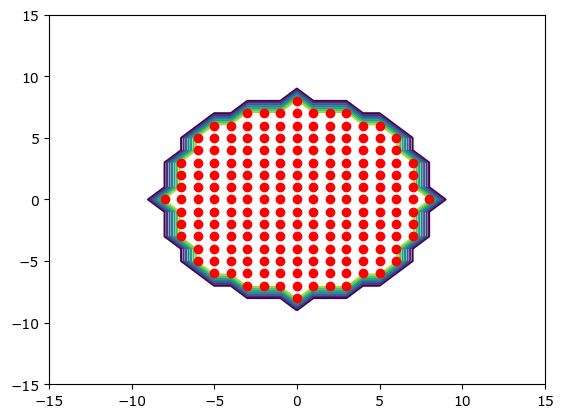
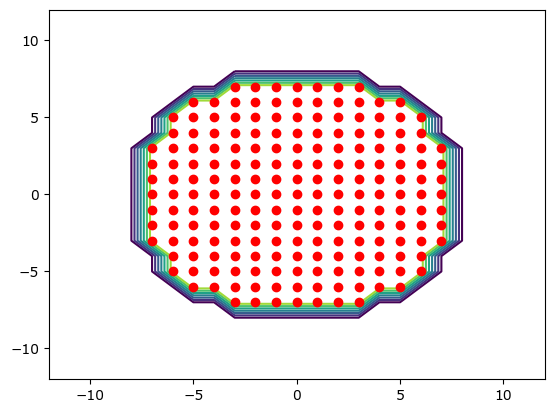
finished all

Changed region(s): [[0.2148, 0.1453, 0.8592, 0.7845], [0.0307, 0.0291, 0.9819, 0.9879]]

diff --git a/week5/EE19B123_week5.py b/week5/EE19B123_week5.py
@@ -22,12 +22,10 @@ else:
     os.mkdir('imgs')
 #########################
 
-
 def add_stuf(function):
         '''
         decorator function
         adds plot label/title/legend/save file
-
         '''
         def fcall(*args, **kwargs): 
             if kwargs.get('xlabel'):
@@ -37,14 +35,13 @@ def add_stuf(function):
             if kwargs.get('title'):
                 plt.title(kwargs['title'])
             if kwargs.get('legend'):
-                plt.legend()
+                plt.legend(('Calculated Error','Fit 1 (all iterations)','Fit 2 (>500 iterations)'))
             function(*args, **kwargs)
-
-            plt.savefig(kwargs['path']+'.png',bbox_inches='tight')
-            print('File saved at {}'.format(kwargs['path']))
-            plt.clf()
+            if not kwargs.get('not_save'):
+                plt.savefig(kwargs['path']+'.png',bbox_inches='tight')
+                print('File saved at {}'.format(kwargs['path']))
+                plt.clf()
         return fcall
-
 
 class Plot:
     '''
@@ -55,48 +52,49 @@ class Plot:
     plot3D()
     contour()
     '''
-
     def __init__(self):
         super(Plot, self).__init__()
 
     @add_stuf
     def semilogy(self,x,y, **kwargs):
-        plt.semilogy(x,y,kwargs['marker'],ms = 4, label = kwargs['label'])
+        plt.semilogy(x,y,kwargs['marker'],ms = 4)
 
     @add_stuf
     def loglog(self,x,y, **kwargs):
         plt.loglog(x,y,kwargs['marker'],ms=4, label = kwargs['label'])
 
-        
     @add_stuf
     def plot3D(self,x,y,z, **kwargs):
         fig = plt.figure() 
         ax=p3.Axes3D(fig) 
         ax.plot_surface(y, x, z.T, rstride=1, cstride=1, cmap=plt.cm.jet)
+        ax.set_zlabel(kwargs['zlabel'])
 
-    @add_stuf
-    def plotMany(self, x, y, **kwargs):
-        pass
+    def plotMany(self, x, y,count, **kwargs):
+        for i in range(count):
+            if i <count-1:
+                kwargs['not_save'] = True
+            else:
+                kwargs['not_save'] = False
+            self.semilogy(x[i],y[i],**kwargs)
 
     @add_stuf
     def contour(self, X, Y,phi, **kwargs):
         ids = kwargs.get('ids')
         x = kwargs.get('x')
         y = kwargs.get('y')
-        contour(X,Y,phi)
+        contour(Y,X[::-1],phi)
         plot(x[ids[0]],y[ids[1]],'ro')
-        #plot(ids[1]-(kwargs['Nx']-1)/2,ids[0]-(kwargs['Ny']-1)/2,kwargs['marker'])
+
 
     @add_stuf
-    def quiver(self, x, y,jx, jy, **kwargs):
-        inds = kwargs.get('ids')
-        Nx = kwargs.get('Nx')
-        Ny = kwargs.get('Ny')
-        phi = kwargs.get('phi')
+    def quiver(self, X, Y,jx, jy, **kwargs):
+        ids = kwargs.get('ids')
+        x = kwargs.get('x')
+        y = kwargs.get('y')
         fig,ax = plt.subplots()
-        fig = ax.quiver(y,x,jx[::-1, :],jy[::-1, :])
-        contour(x,y,phi)
-        pylab.plot(inds[1]-(Nx-1)/2,inds[0]-(Ny-1)/2,'ro')
+        fig = ax.quiver(Y,X[::-1],jx,jy, scale = 5)
+        plot(x[ids[0]],y[ids[1]],'ro')
     
 
 
@@ -127,18 +125,18 @@ class PotentialSolver(Plot):
         '''
         Function to setup the grid
         '''
-        phi = np.zeros((self.Nx,self.Ny))
-        self.x1 = np.linspace(-(self.Nx-1)/2,(self.Nx-1)/2,self.Nx)
-        self.y1 = np.linspace(-(self.Ny-1)/2,(self.Ny-1)/2,self.Ny)
-        self.X,self.Y = np.meshgrid(self.x1,self.y1)
-        id = np.where((self.X**2 + self.Y**2) <= self.radius*self.radius)
+        phi = np.zeros((self.Ny,self.Nx))
+        self.x1 = np.linspace(-(self.Ny-1)/2,(self.Ny-1)/2,self.Ny)
+        self.y1 = np.linspace(-(self.Nx-1)/2,(self.Nx-1)/2,self.Nx)
+        self.Y,self.X = np.meshgrid(self.y1,self.x1)
+        id = np.where((self.X**2 + self.Y**2) < self.radius*self.radius)
         phi[id] = 1.0
         return phi, id
 
     @staticmethod
-    def step(phi):
+    def step(phi, ophi):
         #phi_new = 1/4 *(left +right +top +bottom)
-        phi[1:-1,1:-1] = 0.25*(phi[1:-1,0:-2]+phi[1:-1,2:]+phi[0:-2,1:-1]+phi[2:,1:-1]) 
+        phi[1:-1,1:-1] = 0.25*(ophi[1:-1,0:-2]+ophi[1:-1,2:]+ophi[0:-2,1:-1]+ophi[2:,1:-1]) 
         return phi
 
     @staticmethod
@@ -148,10 +146,8 @@ class PotentialSolver(Plot):
         '''
         phi[1:-1,0] = phi[1:-1,1]   #left side boundary condition
         phi[1:-1,-1] = phi[1:-1,-2] #right side boundary condition
-        #phi[0,1:-1] = phi[1,1:-1]   #top side 
-        #phi[-1, 1:-1] = 0           #bottom side as its grounded
-        phi[-1, 1:-1] = phi[-2, 1:-1]
-        phi[0, 1:-1] =0
+        phi[0,1:-1] = phi[1,1:-1]   #top side 
+        phi[-1, 1:-1] = 0           #bottom side as its grounded
         phi[ids] = 1.0
         return phi
 
@@ -163,7 +159,7 @@ class PotentialSolver(Plot):
         error = np.empty(epochs)
         for i in range(epochs):
             old_phi = self.phi.copy()
-            self.phi = self.step(self.phi)
+            self.phi = self.step(self.phi, old_phi)
             self.phi = self.callback(self.phi, self.ids)
             error[i] = np.max(np.abs(self.phi- old_phi)) 
         return error
@@ -180,26 +176,29 @@ class PotentialSolver(Plot):
     @staticmethod
     def max_error(A,B,N):
         return -A*(np.exp(B*(N+0.5)))/B
+
+    @staticmethod
+    def fit(x, A, B):
+        return A*np.exp(B*x)
          
 
     def cuurents(self):
         '''
         fucntions computes the current vectors ie: Jx , Jy
         '''
-        self.Jx = np.zeros((self.Nx,self.Ny))
-        self.Jy = np.zeros((self.Nx,self.Ny))
+        self.Jx = np.zeros((self.Ny,self.Nx))
+        self.Jy = np.zeros((self.Ny,self.Nx))
 
-        self.Jy[:,1:-1] = 0.5*(self.phi[:,0:-2]-self.phi[:,2:])
-        self.Jx[1:-1,:] = 0.5*(self.phi[2:, :]-self.phi[0:-2,:])
+        self.Jx[:,1:-1] = 0.5*(self.phi[:,0:-2]-self.phi[:,2:])
+        self.Jy[1:-1,:] = 0.5*(self.phi[2:, :]-self.phi[0:-2,:])
 
         return self.Jx, self.Jy
 
 
 
-
 if __name__ =='__main__':
 
-    #using argparse for taking inputs as several inputs are needed adn argv will get confusing
+    #using argparse for taking inputs as several inputs are needed and argv will get confusing
     parser = argparse.ArgumentParser()# use --help for support
     parser.add_argument('--Nx',default=25,required = True, type=int,help='Size along the x axis')
     parser.add_argument('--Ny',default=25,required = True , type=int,help='Size along the y axis')
@@ -215,17 +214,13 @@ if __name__ =='__main__':
         path ='imgs/plate_plot',\
         ids = plate.ids, \
         x = plate.x1,\
-        y = plate.y1
-        )
+        y = plate.y1)
 
     #compute the potential function
     loss = plate.trainer(args.Niter)
-
-    A,B = plate.errorFit(range(args.Niter), loss)
-    A2,B2 = plate.errorFit(range(args.Niter)[500:],loss[500:])
-
+    
     #Task 1.1
-    plate.semilogy(range(1000), loss, \
+    plate.semilogy(range(1000)[::50], loss[::50], \
         marker = 'ro',\
         xlabel = 'iterations',\
         ylabel = 'error(log scale)',\
@@ -239,33 +234,42 @@ if __name__ =='__main__':
         path = 'imgs/figure2',\
         label = 'plot')
 
+    A,B = plate.errorFit(range(args.Niter), loss)
+    A2,B2 = plate.errorFit(range(args.Niter)[500:],loss[500:])
+
     #Task 2.1 TODO add  multiple plots cuz here u have to plot 3 in a graph
-    plate.semilogy(range(1000)[::50],plate.max_error(A,B,np.arange(0,1000,50)),\
+    l = range(1000)[::50]
+    plate.plotMany(\
+        [l]*3,\
+        [loss[::50],plate.fit(l, A,B) ,plate.fit(l , A2, B2)],\
+        count = 3, \
         marker = 'ro',\
         xlabel = 'iterations',\
         ylabel = 'error(log scale)',\
-        path = 'imgs/figure3', \
-        label = 'plot')
+        path = 'imgs/figure3')
 
     #Task 3
-    #plate.plot3D(plate.X, plate.Y, plate.phi , path ='imgs/figure4', tile ='The 3-D surface plot of the potential')
+    plate.plot3D(plate.X, plate.Y, plate.phi, \
+        path ='imgs/figure4', 
+        tile = 'The 3-D surface plot of the potential', 
+        xlabel ='x',
+        ylabel = 'y',
+        zlabel ='phi')
 
     #Task 4 , contour potential
     plate.contour(plate.X, plate.Y, plate.phi, cmap=pylab.cm.get_cmap("autumn"), \
         path ='imgs/contour_plot',\
         ids = plate.ids, \
         x = plate.x1,\
-        y = plate.y1
-        )
+        y = plate.y1 )
 
     #Task 5 , vetcor plot of currents 
     jx, jy = plate.cuurents()
-    plate.quiver(plate.x1, plate.y1, jx, jy,\
+    plate.quiver(plate.X, plate.Y, jx, jy,\
         path = 'imgs/quiver_plot',\
-        phi = plate.phi, \
+        x = plate.x1, \
         ids = plate.ids , \
-        Nx = plate.Nx,\
-        Ny = plate.Ny)
+        y = plate.y1 )
 
 
 
